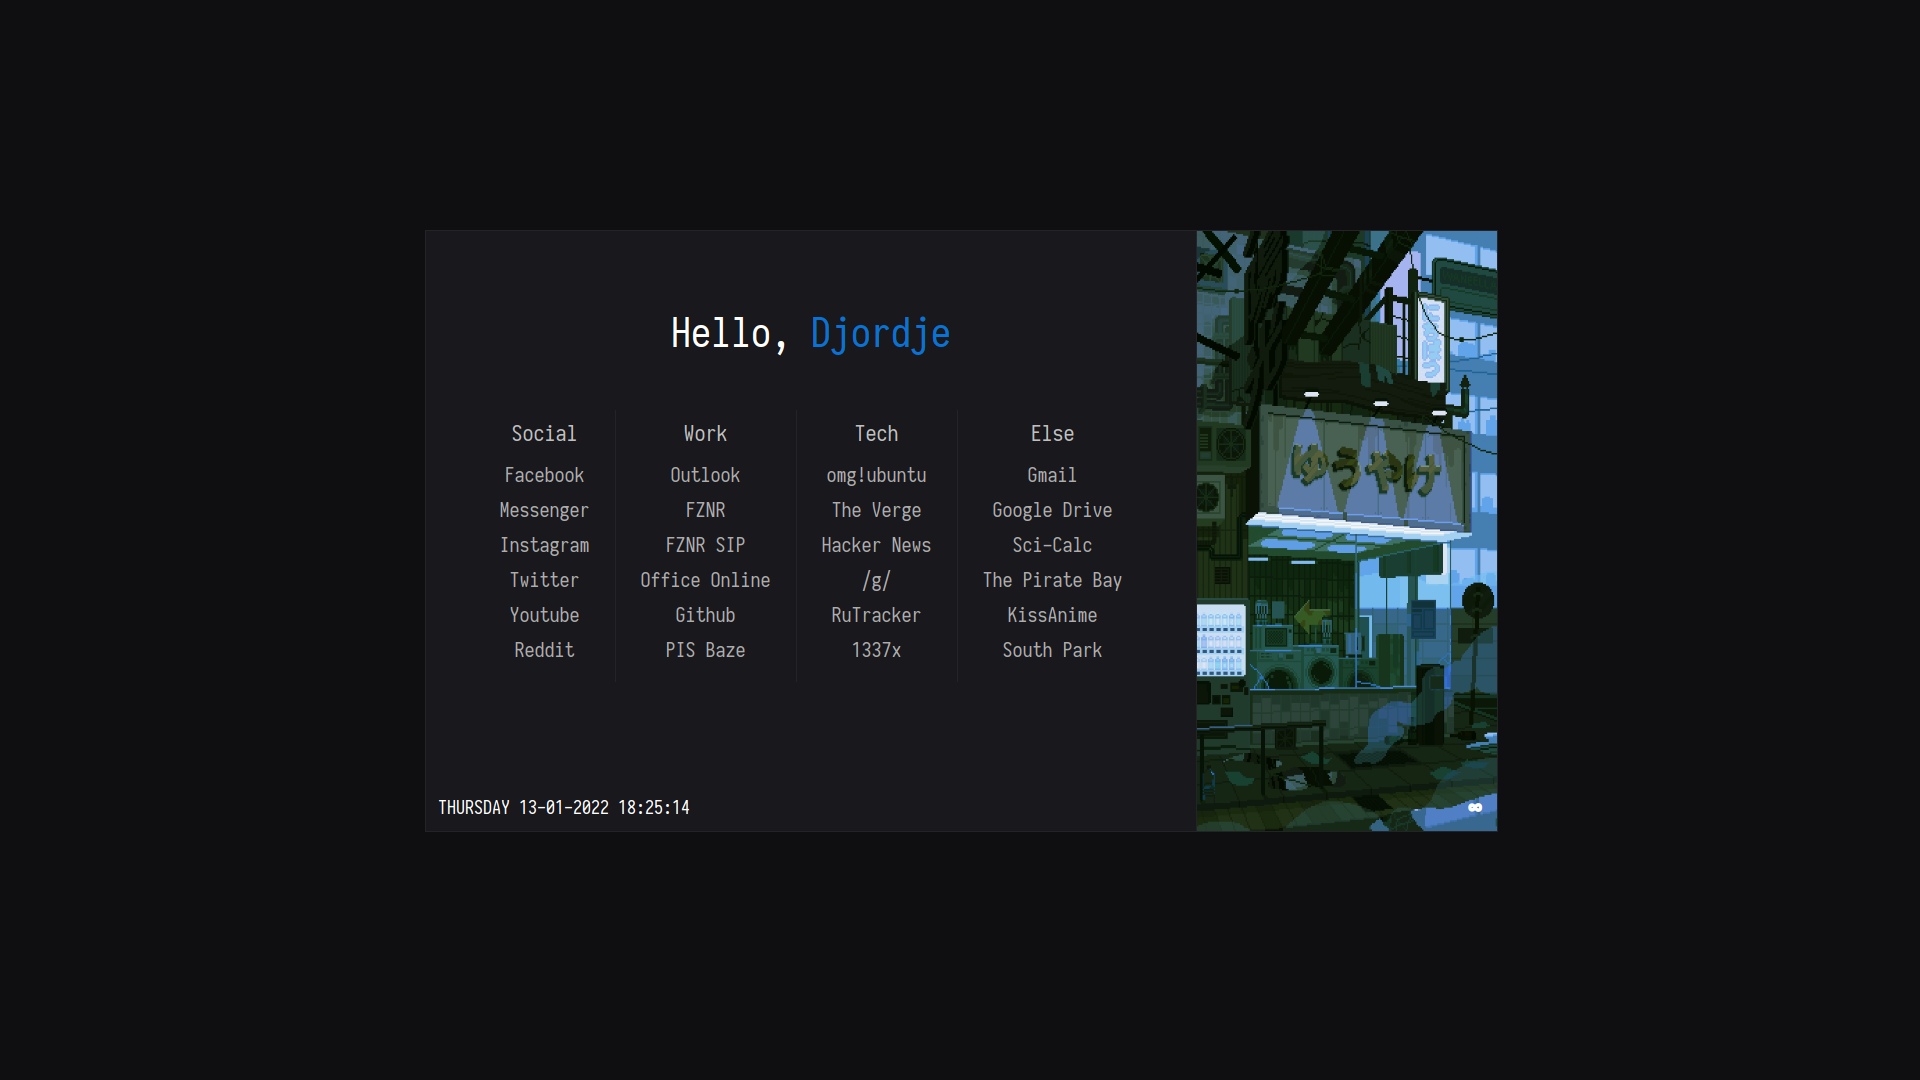
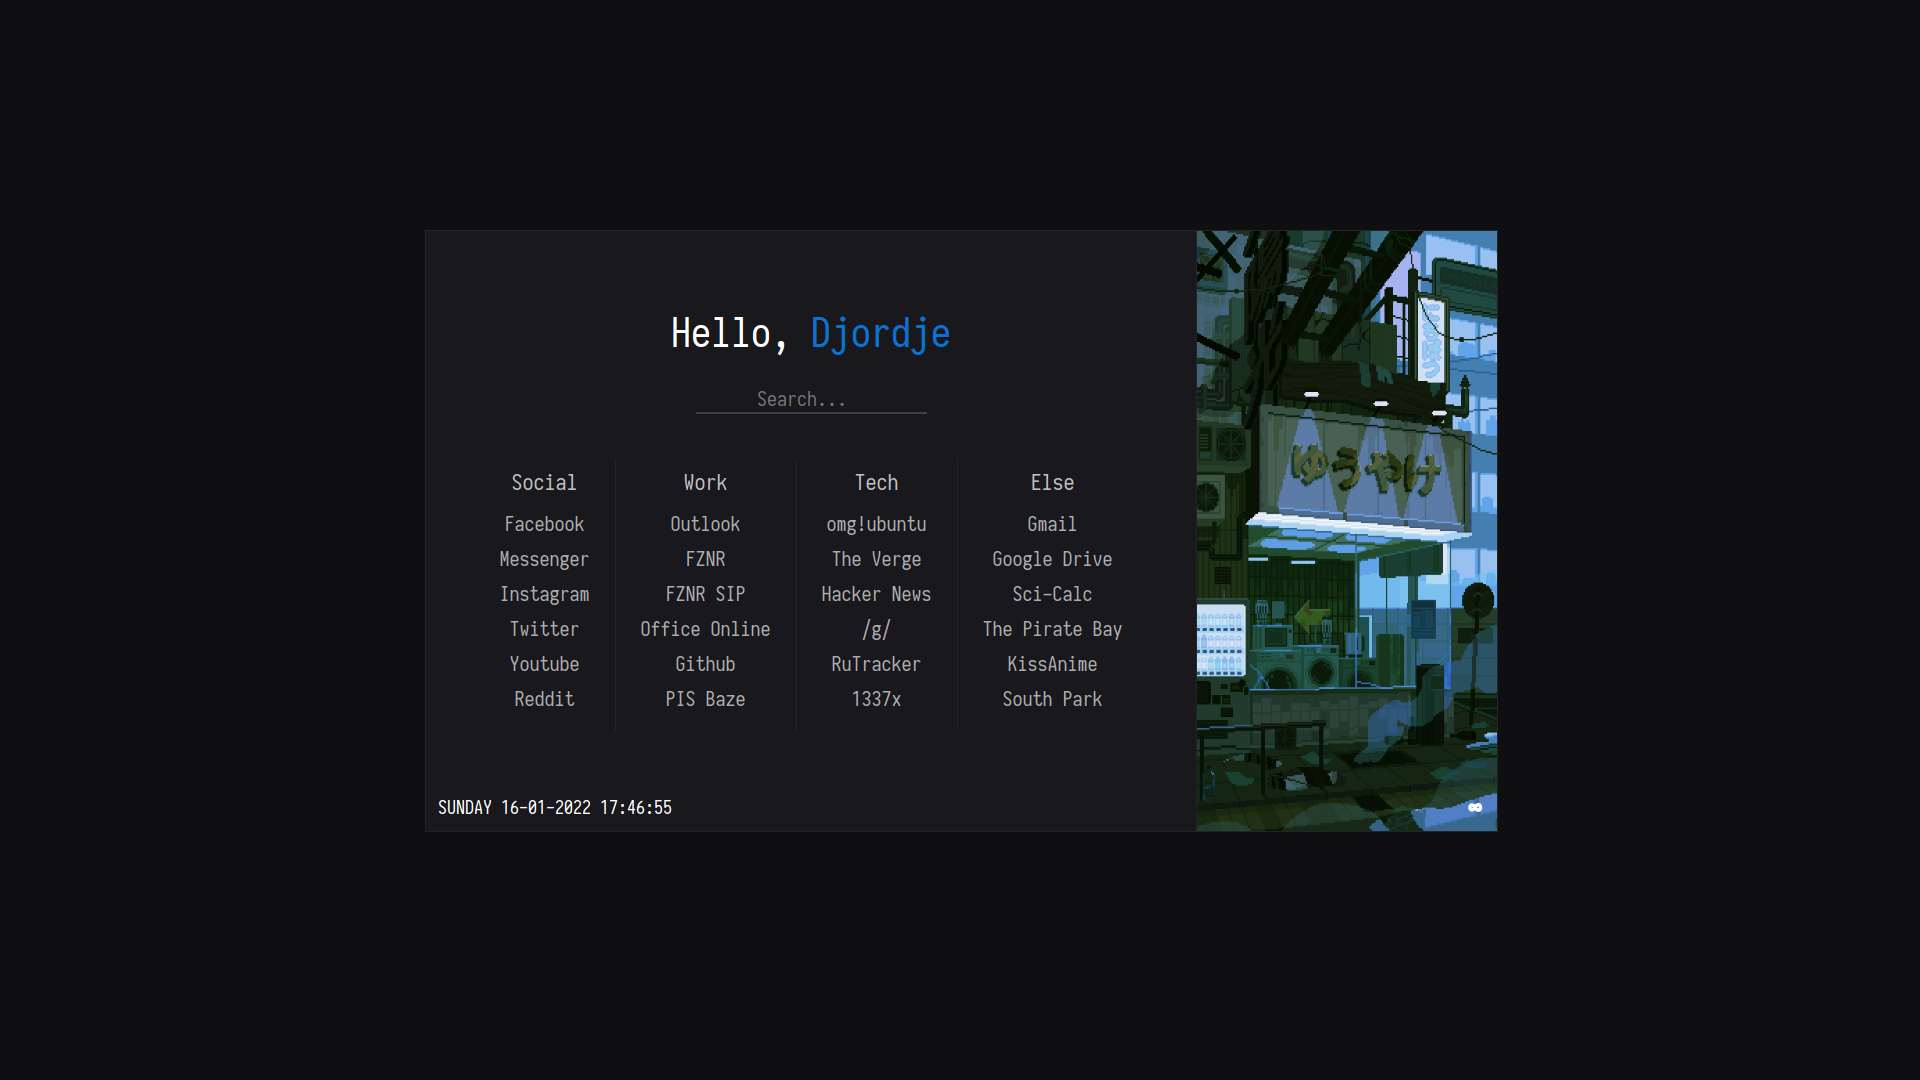
3.0

diff --git a/index.html b/index.html
@@ -140,6 +140,30 @@
 			<h1>Hello, <span class="flair">Djordje</span></h1>
 		</header>
 
+		<!--- Search bar powered by searX instance --->
+		<form id="form" role="search">
+			<input autofocus
+				type="search"
+				id="query"
+				name="q"
+				placeholder="Search..."
+			/>
+		</form>
+
+		<!--- Function for Search bar --->
+		<script>
+			const f = document.getElementById("form");
+			const q = document.getElementById("query");
+			const search ="https://searx.cthd.icu/?q=";
+
+			function submitted(event) {
+				event.preventDefault();
+				const url = search + q.value + "&ia=web";
+				window.open(url, "_self");
+			}
+			f.addEventListener("submit", submitted);
+		</script>
+
 		<nav>
 			<br>
 			<ul class="blue">

diff --git a/general.css b/general.css
@@ -182,3 +182,25 @@ ul[class=yellow] > li > a:hover {
   color: #edd934;
   transition: all 0.5s;
 }
+
+input {
+  background-color: unset;
+  font: 20px "Iosevka";
+  color: #d5d5d5;
+  height: 100%;
+  width: 30%;
+  border-top-style: hidden;
+  border-right-style: hidden;
+  border-left-style: hidden;
+  border-bottom-style: solid;
+  border-bottom-color:#384149;
+  text-align: center;
+  margin-bottom: 20px;
+  margin-left: auto;
+  margin-right: auto;
+  display: block;
+}
+
+input:focus {
+  outline: none;
+}

diff --git a/README.md b/README.md
@@ -6,7 +6,10 @@ homepage
 ### Default Home
 <img src="homepage.png" alt="Home" width="100%"/>
 
-This is a fork of RamenMaestro's [startpage](https://github.com/RamenMaestro/startpage) with a image scroll option, larger option size and added favicon. 
+This is a fork of RamenMaestro's [startpage](https://github.com/RamenMaestro/startpage) with a image scroll option, larger option size, added favicon and search bar.  
+
+### searX instance: <a href="https://searx.cthd.icu/">Link</a>
 
 ## Credits
 Images used in the sidebar are by background artist [Waneella](https://twitter.com/waneella_).
+searX instance provided by [Cybertech Headless Daemon](https://gitlab.cthd.icu/cthd).
